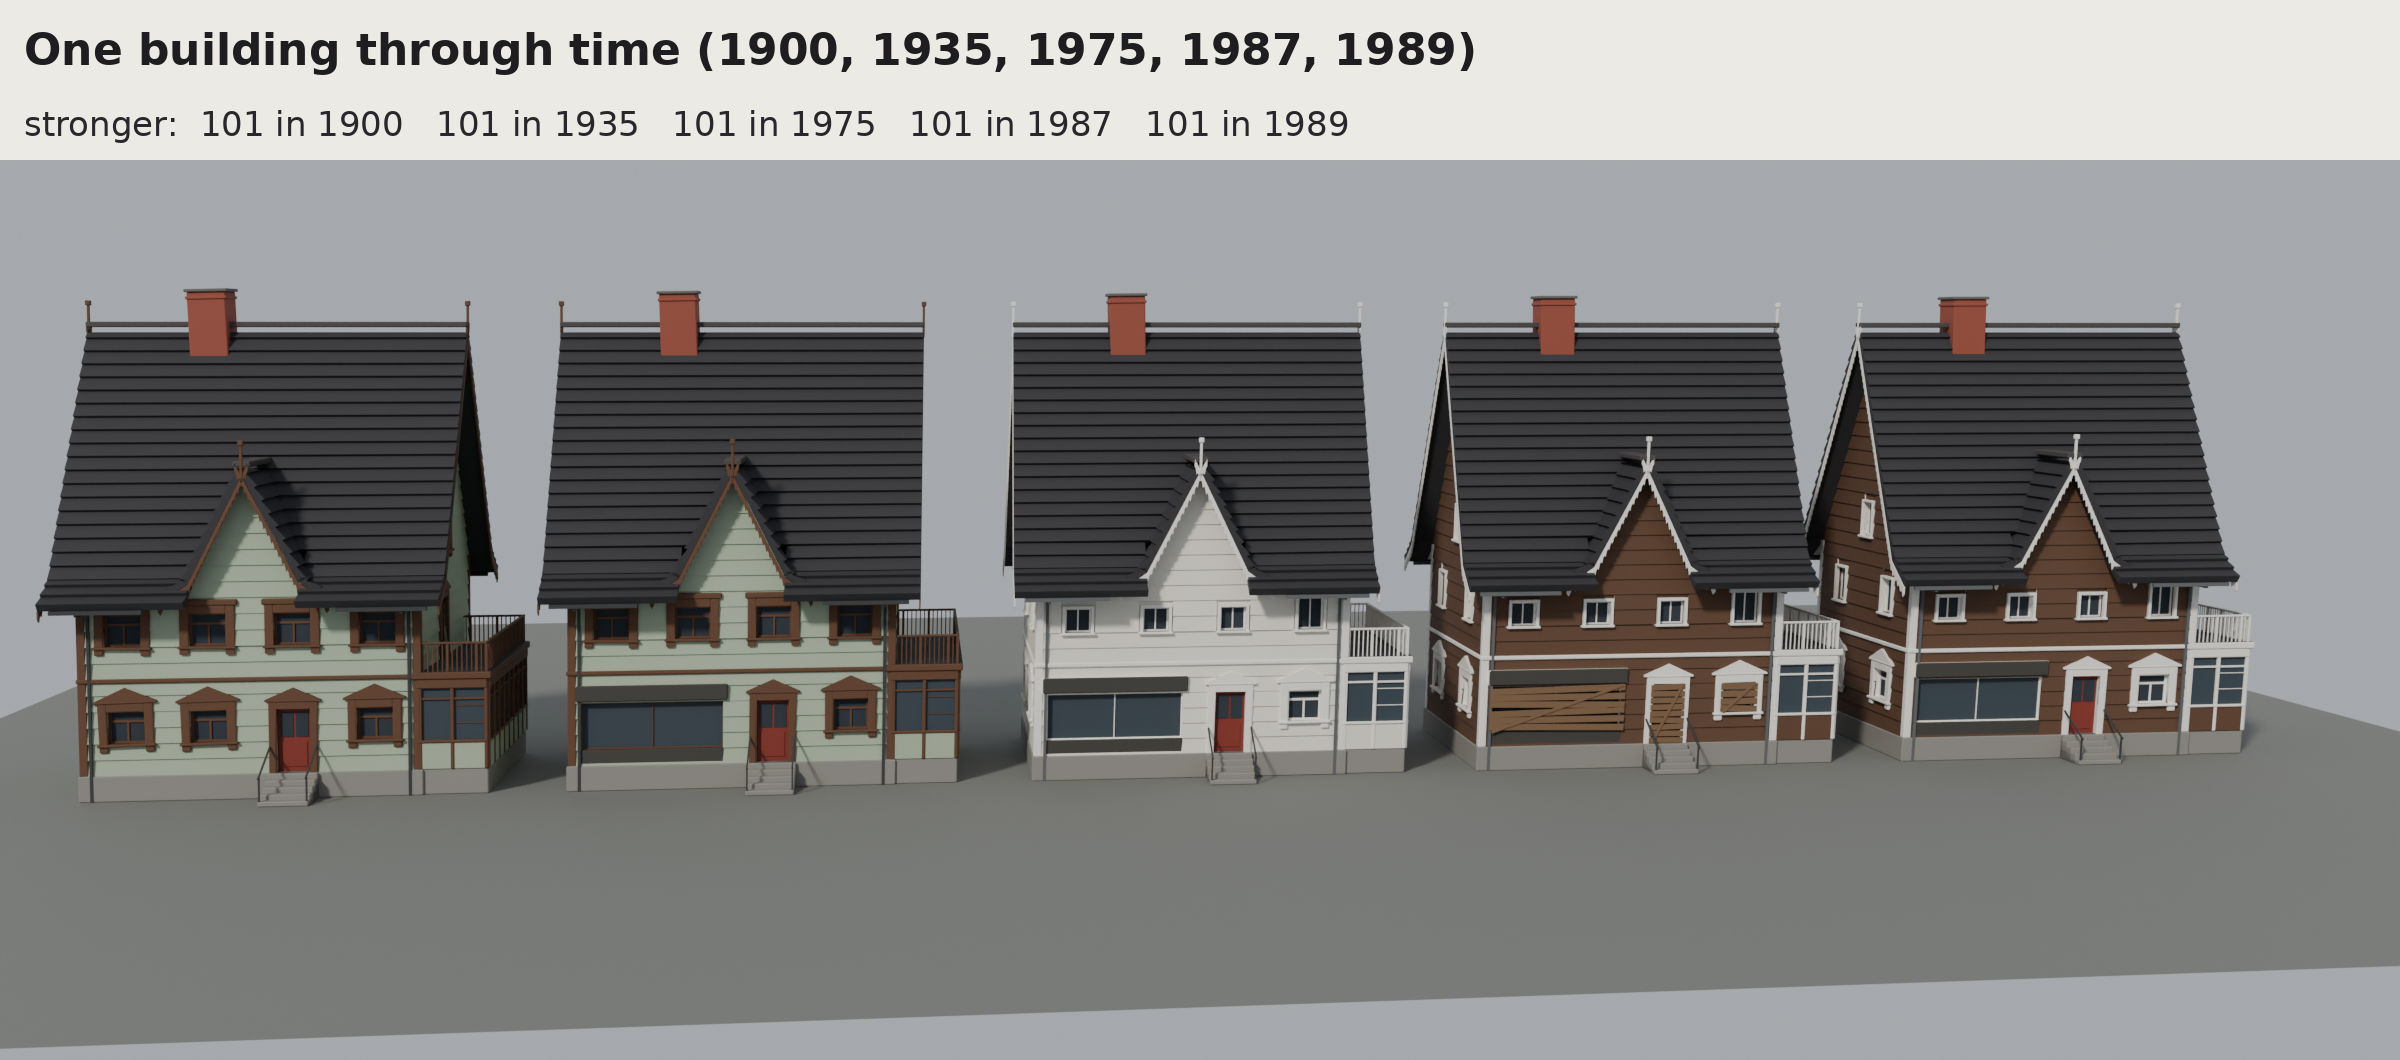
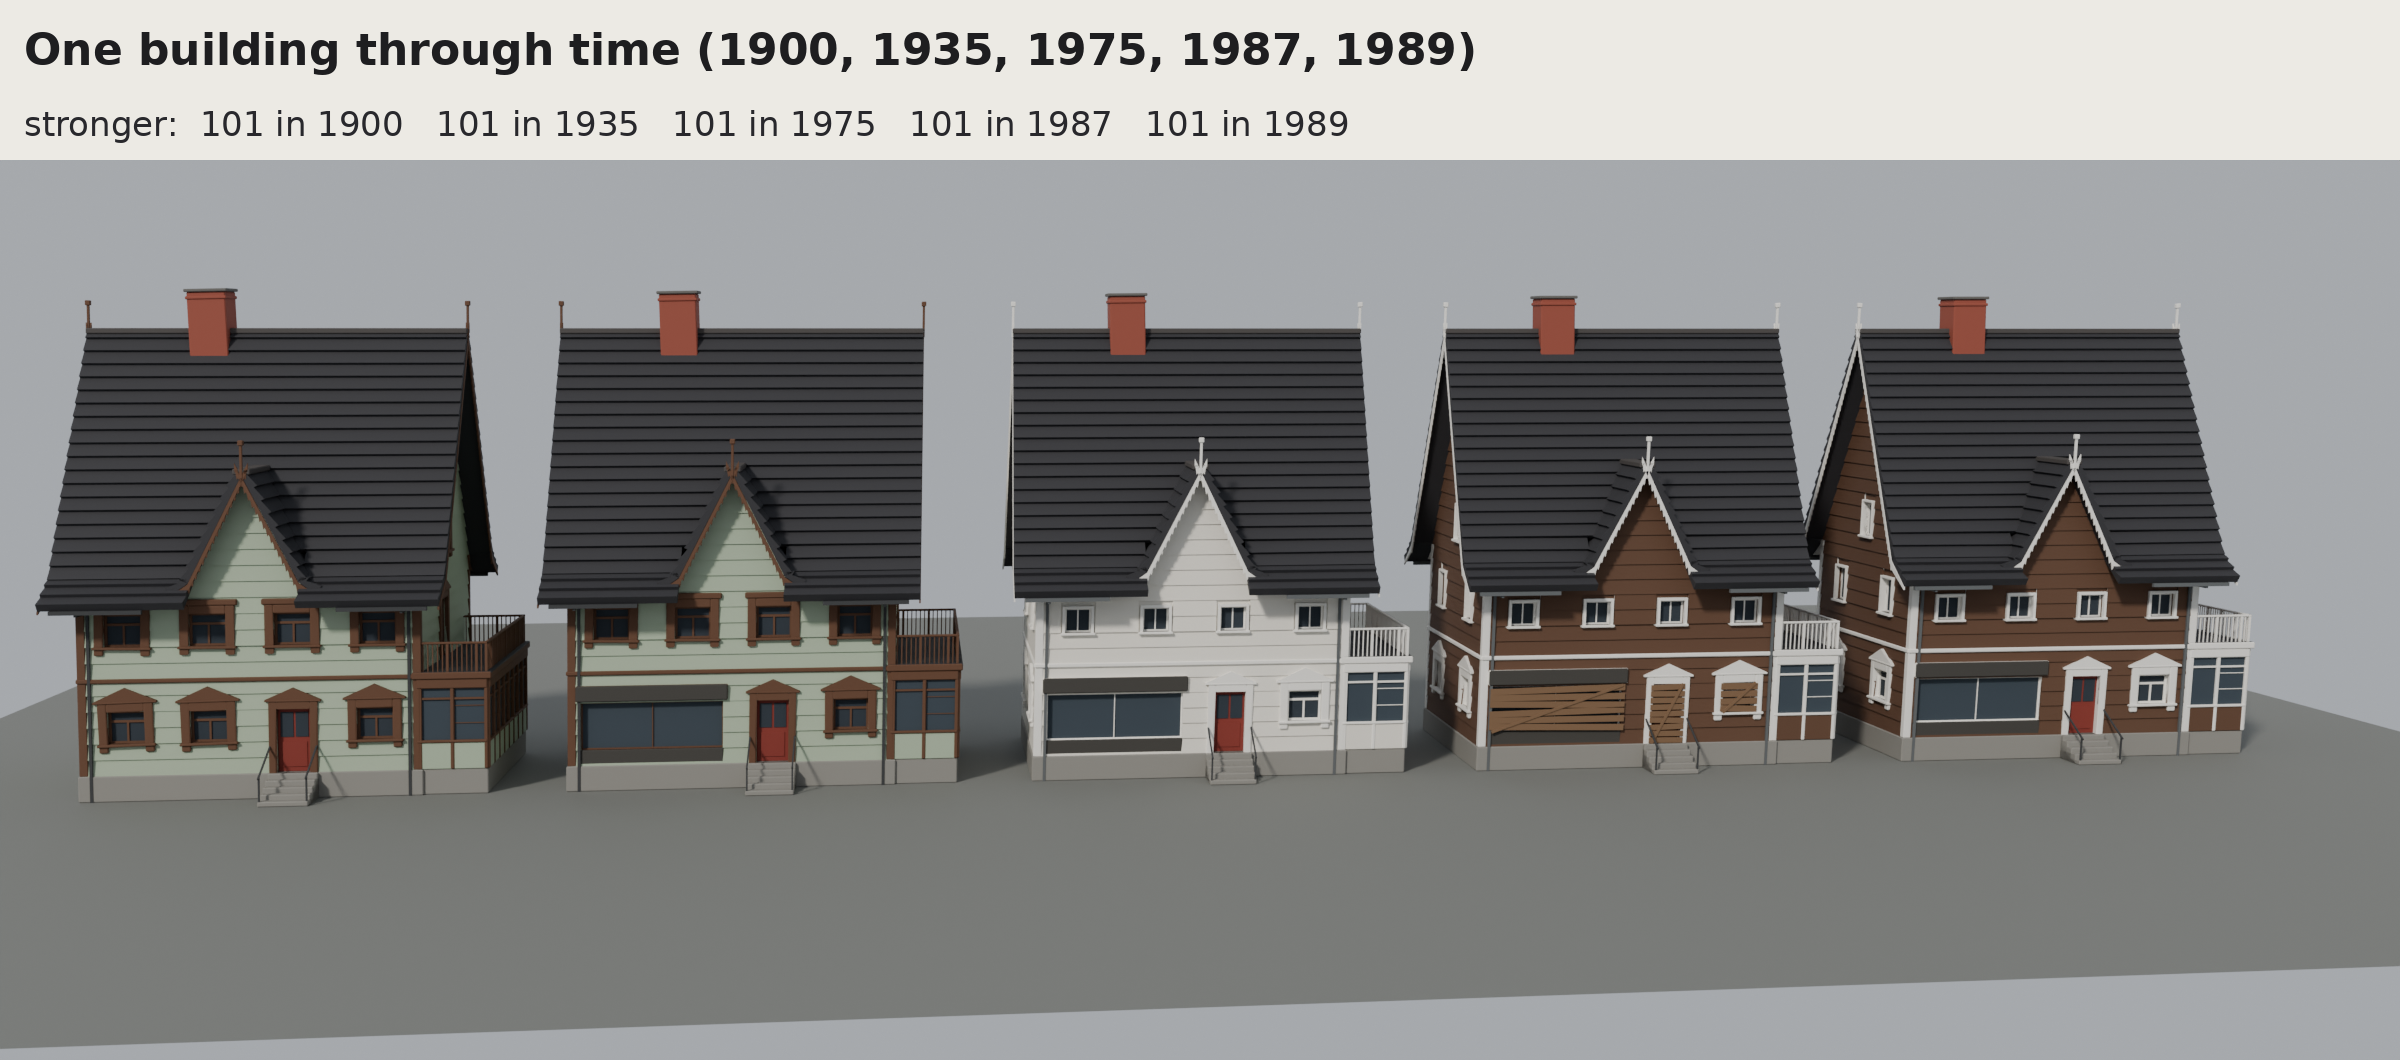
LT1: reviewer's findings fixed at the cause (ridge caps, chimney stacks, barge ends, eave lips, bays); start on the open branch; models by kind of work
Claude-Session: https://claude.ai/code/session_01QWTJCGfGbk27QjW7HgLo4b

diff --git a/blender/generators/building.py b/blender/generators/building.py
@@ -302,7 +302,7 @@ def build(plan, style="strong", name=None, material=None):
     openings = {k: [] for k in ("front", "back", "left", "right")}
     placed = []  # (facade_local, cell, a0, a1, b0, b1, crown)
     S = mm(m["storey_h"])
-    ark = next((x for x in plan["additions"] if x["kind"] == "ark"), None)
+    ark = next((x for x in plan["additions"] if x["kind"] == "ark" and "x" in x), None)
     ark_roof = None
     ax = aw = ark_reach = 0.0
     if ark:
@@ -411,7 +411,8 @@ def build(plan, style="strong", name=None, material=None):
             return full_, (full_ if kind_ == "shopfront" else b1 + fw)
 
         above = [(a0, a1, b0, *tops(cc, a0, a1, b1, cr)) for lc, cc, a0, a1, b0, b1, cr in placed if lc == "front" and cc["part"]["type"] in ("window", "shopfront")]
-        sol = porches[id(add)] = _bislag_solve(plan, add, ctx, W, D, P, H, band, t, lap, rt, s, roof, above)
+        bays = [(mm(a_["x"]) - mm(a_["w"]) / 2 - 0.2, mm(a_["x"]) + mm(a_["w"]) / 2 + 0.2, S - 0.25 - 0.16 - BAY_BRACKET) for a_ in plan["additions"] if a_["kind"] == "bay" and "x" in a_]
+        sol = porches[id(add)] = _bislag_solve(plan, add, ctx, W, D, P, H, band, t, lap, rt, s, roof, above, bays)
         for k, (lc, cc, a0, a1, b0, b1, cr) in enumerate(placed):
             kind_ = cc["part"]["type"]
             if lc != "front" or kind_ not in ("window", "shopfront") or b0 >= 1.5:
@@ -576,7 +577,7 @@ def build(plan, style="strong", name=None, material=None):
             _veranda(b, plan, add, ctx, coat, W, D, P, S, cham)
         elif k == "bay":
             b.role = 4
-            _bay(b, plan, add, ctx, coat, W, D, P, S, band, t, lap, cham, win_scale, vertical, key, curtain_col, curtain_kind, roof, H)
+            _bay(b, plan, add, ctx, coat, W, D, P, S, band, t, lap, cham, win_scale, vertical, key, curtain_col, curtain_kind, roof, H, (ax, aw / 2, e * 0.8, ark_roof) if ark_roof else None)
             b.role = 0
         elif k == "dormers":
             for i, x in enumerate(add["xs"]):
@@ -677,7 +678,7 @@ def _crown(part, part_orn, host_orn, plan, era):
 # -- additions ------------------------------------------------------------------------------------
 
 
-def _bislag_solve(plan, add, c, W, D, P, H, band, t, lap, rt, s, main_roof, above):
+def _bislag_solve(plan, add, c, W, D, P, H, band, t, lap, rt, s, main_roof, above, bays=()):
     """above: windows (a0, a1, b0, top, plain) on the wall behind the porch; top includes the crown, plain only the casing.
 
     The porch's roof stays under the sills of the windows over it and above the crowns of the
@@ -693,7 +694,12 @@ def _bislag_solve(plan, add, c, W, D, P, H, band, t, lap, rt, s, main_roof, abov
         if b0 < 1.5 and not (a0 < bx < a1):
             edge = min(abs(a0 - c.fw * 1.6 - bx), abs(a1 + c.fw * 1.6 - bx))
             bw = max(mm(door["w"]) + 0.6, min(bw, 2 * (edge - reach)))
+    for a0, a1, low in bays:
+        if not (a0 < bx < a1):
+            edge = min(abs(a0 - bx), abs(a1 - bx))
+            bw = max(mm(door["w"]) + 0.6, min(bw, 2 * (edge - reach)))
     over = lambda a0, a1: a1 + c.fw * 1.6 > bx - bw / 2 - reach and a0 - c.fw * 1.6 < bx + bw / 2 + reach
+    above = list(above) + [(a0 + c.fw * 1.6, a1 - c.fw * 1.6, low + c.fw + 0.2, low, low) for a0, a1, low in bays]
     eave_under = main_roof.profile[1][0][1] - P  # the main roof's lowest edge, above the plinth
     cornice_under = H - (t + lap + 0.012 + 0.12) * math.tan(main_roof.pe) - 0.27 if plan["main"]["ornament"].get("cornice") else H
     ceiling = min([H - 0.2, eave_under - 0.12, cornice_under - 0.05] + [b0 - c.fw - 0.2 for a0, a1, b0, top, plain in above if b0 > 1.5 and over(a0, a1)])
@@ -792,18 +798,26 @@ BAY_ROOF = math.radians(24)  # the bay's own roof, rising to the wall
 BAY_BRACKET = 0.35  # how far the brackets under a bay reach down
 
 
-def _bay_top(plan, add, S, H, roof):
-    """The top of a bay's walls: under its storey's top, with its roof clear of the main eave."""
-    bd = mm(add["d"])
+def _bay_top(plan, add, S, H, roof, ark=None):
+    """The top of a bay's walls: under its storey's top, with its roof clear of the main eave
+    and of a cross-gable's side eave. ark: (x, half width, eave depth, roof) or None."""
+    bx, bw, bd = mm(add["x"]), mm(add["w"]), mm(add["d"])
     rise = (bd + 0.14) * math.tan(BAY_ROOF)
     under_eave = H - (bd + 0.25) * math.tan(roof.pe) - 0.12  # the main roof's underside at the bay's front
-    return min(plan["main"]["full"] * S - 0.45, under_eave - 0.1, H - 0.15 - rise)
+    top = min(plan["main"]["full"] * S - 0.45, under_eave - 0.1, H - 0.35 - rise)  # its roof sits 0.12 up and is 0.1 thick
+    if ark:
+        ax, ahw, ae, aroof = ark
+        edges = (abs(bx - bw / 2 - 0.14 - ax) - ahw, abs(bx + bw / 2 + 0.14 - ax) - ahw)
+        if min(edges) < ae + 0.3:
+            d_far = max(0.0, min(max(edges), ae))
+            top = min(top, H - d_far * math.tan(aroof.pe) - 0.35 - rise)
+    return top
 
 
-def _bay(b, plan, add, c, coat, W, D, P, S, band, t, lap, cham, win_scale, vertical, key, curtain_col, curtain_kind, main_roof, H):
+def _bay(b, plan, add, c, coat, W, D, P, S, band, t, lap, cham, win_scale, vertical, key, curtain_col, curtain_kind, main_roof, H, ark=None):
     bx, bw, bd = mm(add["x"]), mm(add["w"]), mm(add["d"])
     m = plan["main"]
-    z0, z1 = S - 0.25, _bay_top(plan, add, S, H, main_roof)
+    z0, z1 = S - 0.25, _bay_top(plan, add, S, H, main_roof, ark)
     front = Frame((bx, -D / 2 - bd, P), (1, 0, 0), UP, (0, -1, 0))
     sides = {sx: Frame((bx + sx * bw / 2, -D / 2 - bd / 2, P), (0, 1, 0), UP, (sx, 0, 0)) for sx in (-1, 1)}
     cells = [cc for cc in plan["cells"] if cc["facade"].startswith("bay_")]
@@ -816,13 +830,15 @@ def _bay(b, plan, add, c, coat, W, D, P, S, band, t, lap, cham, win_scale, verti
         crown = "flat" if cc["facade"] == "bay_front" else None
         lo, hi = z0 + 0.35, z1 - 0.08 - parts.crown_height(crown, -w / 2, w / 2, c.fw)
         h_ = snap(mm(cc["b1"] - cc["b0"]) * win_scale, band)
-        while h_ > hi - lo and h_ - band >= max(0.6, band):
+        b1 = math.floor((hi + 1e-6) / band) * band  # the head on a board line, as high as fits
+        while b1 - h_ < lo - 1e-6 and h_ - band >= max(0.6, band) - 1e-6:
             h_ -= band
-        b0 = math.ceil((lo - 1e-6) / band) * band
-        b1 = b0 + h_
-        if b1 > hi + 1e-6 or w < 0.35:
+        b0 = b1 - h_
+        if b0 < lo - 0.1 or w < 0.35:
             continue
         holes[cc["facade"]].append((-w / 2, w / 2, b0, b1, cc))
+    if not holes["bay_front"]:
+        return  # no window fits: a bay is a window, so it is not built
     wall(b, front, [dict(lo=-bw / 2, hi=bw / 2, b_lo=z0, b_hi=z1)], [hh[:4] for hh in holes["bay_front"]], band, t, lap, coat["wall"], vertical)
     for sx, name_ in ((-1, "bay_left"), (1, "bay_right")):
         wall(b, sides[sx], [dict(lo=-bd / 2, hi=bd / 2, b_lo=z0, b_hi=z1)], [hh[:4] for hh in holes[name_]], band, t, lap, coat["wall"], vertical)

diff --git a/blender/resolver/resolve.py b/blender/resolver/resolve.py
@@ -195,6 +195,9 @@ def _house_cells(plan, ev, ws):
             cells.append(_cell(side, 0, ww * 9 // 10, m["H"] + 450, m["H"] + 450 + wh * 8 // 10, "window", win, m["era"], ev["id"], col=99, row=99))
     for add in plan["additions"]:
         _layout_addition(plan, add, key, win, ww, wh, sill)
+    # an addition the resolver chose, with no room for it, is simply not there; one the diary names stays, unplaced
+    named = ev["params"].get("with", [])
+    plan["additions"] = [a for a in plan["additions"] if not (a.get("unplaced") and a["kind"] not in named)]
 
 
 def _layout_addition(plan, add, key, win, ww, wh, sill):
@@ -208,8 +211,12 @@ def _layout_addition(plan, add, key, win, ww, wh, sill):
     ev_id = add["event"]
     if True:
             if add["kind"] == "ark":
-                add["x"] = cols[nb // 2] if nb % 2 else 0
-                add["w"] = min(W * 45 // 100, max(2600, W * 13 // (10 * nb)))
+                x = cols[nb // 2] if nb % 2 else 0
+                w = min(W * 45 // 100, max(2600, W * 13 // (10 * nb)))
+                if any(a["kind"] == "bay" and "x" in a and abs(a["x"] - x) < w // 2 + a["w"] // 2 + 1200 for a in plan["additions"]):
+                    add["unplaced"] = True  # an older bay stands where its eaves would come down
+                    return
+                add["x"], add["w"] = x, w
                 cells.append(_cell("front", add["x"], ww * 9 // 10, m["H"] + 300, m["H"] + 300 + wh * 8 // 10, "window", win, add["era"], ev_id, col=98, row=98))
             if add["kind"] == "bislag":
                 add["x"] = cols[door_i]
@@ -220,9 +227,17 @@ def _layout_addition(plan, add, key, win, ww, wh, sill):
                         c["part"]["type"] = "inner_door"
                 cells.append(_cell("bislag", 0, 950, 0, 2200, "door", E["door"], add["era"], ev_id))
             if add["kind"] == "bay":
-                choices = [i for i in range(nb) if i != door_i]
+                # a bay keeps a clear column from the door (where a porch stands or may come)
+                # and stays out from under a cross-gable's eaves
+                arks = [a for a in plan["additions"] if a["kind"] == "ark" and "x" in a]
+                bay_w = min(2400, W // nb + 600)
+                choices = [i for i in range(nb) if abs(i - door_i) >= 2
+                           and all(abs(cols[i] - a["x"]) >= a["w"] // 2 + bay_w // 2 + 1200 for a in arks)]
+                if not choices:
+                    add["unplaced"] = True
+                    return
                 i = choices[key("bay_i") % len(choices)]
-                add["x"], add["w"], add["d"] = cols[i], min(2400, W // nb + 600), 650
+                add["x"], add["w"], add["d"] = cols[i], min(bay_w, 2 * (W // 2 - abs(cols[i])) - 600), 650  # wall on both sides
                 add["col"] = i
                 # windows behind the bay are replaced by the bay's own
                 plan["cells"] = cells = [c for c in cells if not (c["facade"] == "front" and c.get("col") == i and c.get("row", 0) >= 1)]

diff --git a/docs/building-system.md b/docs/building-system.md
@@ -53,8 +53,11 @@ Every part fits where it is placed, or it changes until it does. A part never cu
 - A steep roof's overhang flares out at the eave (at most 50°), as a mansard's does, so the eave never swallows the top storey.
 - Beside a cross-gable, parts stay under its side eaves; the eave falls away from the cross-gable, so a part's far edge is the one that counts. Gutters, brackets and cornices stop where the cross-gable's roof begins.
 - A window in a gable stays under the gable's roof lines.
+- On the top storey of an eave wall, a window's head stays below the eave's lip where it can, so it reads from the street.
+- A bay is placed a clear column away from the door, where a porch stands or may come, and out from under a cross-gable's eaves, with wall on both sides. Its walls stop under the main eave, it has its own sloped roof, and its windows fit inside it. A bay with no window that fits is not built.
+- Flues close enough to touch are built as one stack. The ridge cap sits on the top corners of the courses. Barge boards taper to their end at the eave.
 - A porch is solved before any wall is built. It narrows, lowers its pitch (down to nearly flat) and changes height until its roof stays under the sills above it, under the main eave and cornice, and clear of the windows beside it. The windows beside it then fit under its eave. Belt courses stop at a porch.
-- When something still does not fit, it gives way in this order: it shrinks to two boards, its crown becomes simpler, it moves down within its storey, and last it is left out, which leaves plain wall. A diary fact (the porch) wins over a part the resolver chose (a window over it).
+- When something still does not fit, it gives way in this order: it shrinks to two boards, its crown becomes simpler, it moves down within its storey, and last it is left out, which leaves plain wall. A diary fact (the porch) wins over a part the resolver chose (a window over it). An addition the resolver chose with no room for it is simply not there; one the diary names is kept as unplaced.
 
 ## Checks
 

diff --git a/CLAUDE.md b/CLAUDE.md
@@ -23,7 +23,7 @@ Each experiment moves one of these, or it does not run. Its question, how it is 
 
     git fetch origin && git switch main && git pull --ff-only
 
-Read `NOW.md`. Read `docs/visual-direction.md` before any visual work.
+Read `NOW.md`. If it names an open experiment's branch, switch to that branch and pull it: an experiment's work lives there until it is merged. Read `docs/visual-direction.md` before any visual work.
 
 ## How work runs
 
@@ -46,6 +46,13 @@ One experiment per session, on its own branch (`lt/1-first-street`), following t
 - **Evidence, not verdicts.** The screen shows what was seen and heard. A read of someone's character is someone's opinion, shown as fallible, never as the game's truth: a vivid act read as a whole character makes readers worse (Understory's human test).
 - **The setting is a pack.** The harbour town, its era content and its look sit on top of the engine; the engine stays general and assumes no country.
 - **Rule 8:** no homophobic, sexist or racial content.
+
+## Models
+
+Choose the model by the kind of work, and say in one line when a step calls for a different one. Helper agents get the model their job needs.
+- **Fable 5.1:** decisions that shape the project, and judgement: what an experiment proves, system and fitting rules, art direction, judging renders, checking reviews against the code.
+- **Opus 5.5:** building once designed: generators, the Unity side, debugging, docs.
+- **Sonnet 5.5:** mechanical work with a check behind it: batch renders, moves, exports and status that the stress test or a hash proves unchanged.
 
 ## Docs
 

diff --git a/docs/experiments.md b/docs/experiments.md
@@ -31,3 +31,4 @@ Newest first. Each entry: the question, how it is judged, then the outcome: what
 - Wild is dropped. Its proportions were the attraction; its deformation (a lean of up to 4.5°, up to half a metre of sag, bowing walls) read as caricature and broke construction: walls stood outside roofs.
 - Stronger is added: wild's proportions with strong's deformation. Strong and stronger are compared on the same street.
 - The first wild sheet went out with a known fault. Since then, building checks and a stress test gate every sheet: 1,564 random buildings at strong and stronger pass, and the street fixtures pass in every year.
+- A blind reviewer found what the checks could not see: floating ridge caps, merged double chimneys, window heads hidden by deep eaves, dangling barge ends, and bays that hit porches, cross-gables and the eave. Each became a rule (`docs/building-system.md`, Fitting), and bays became checked parts.
